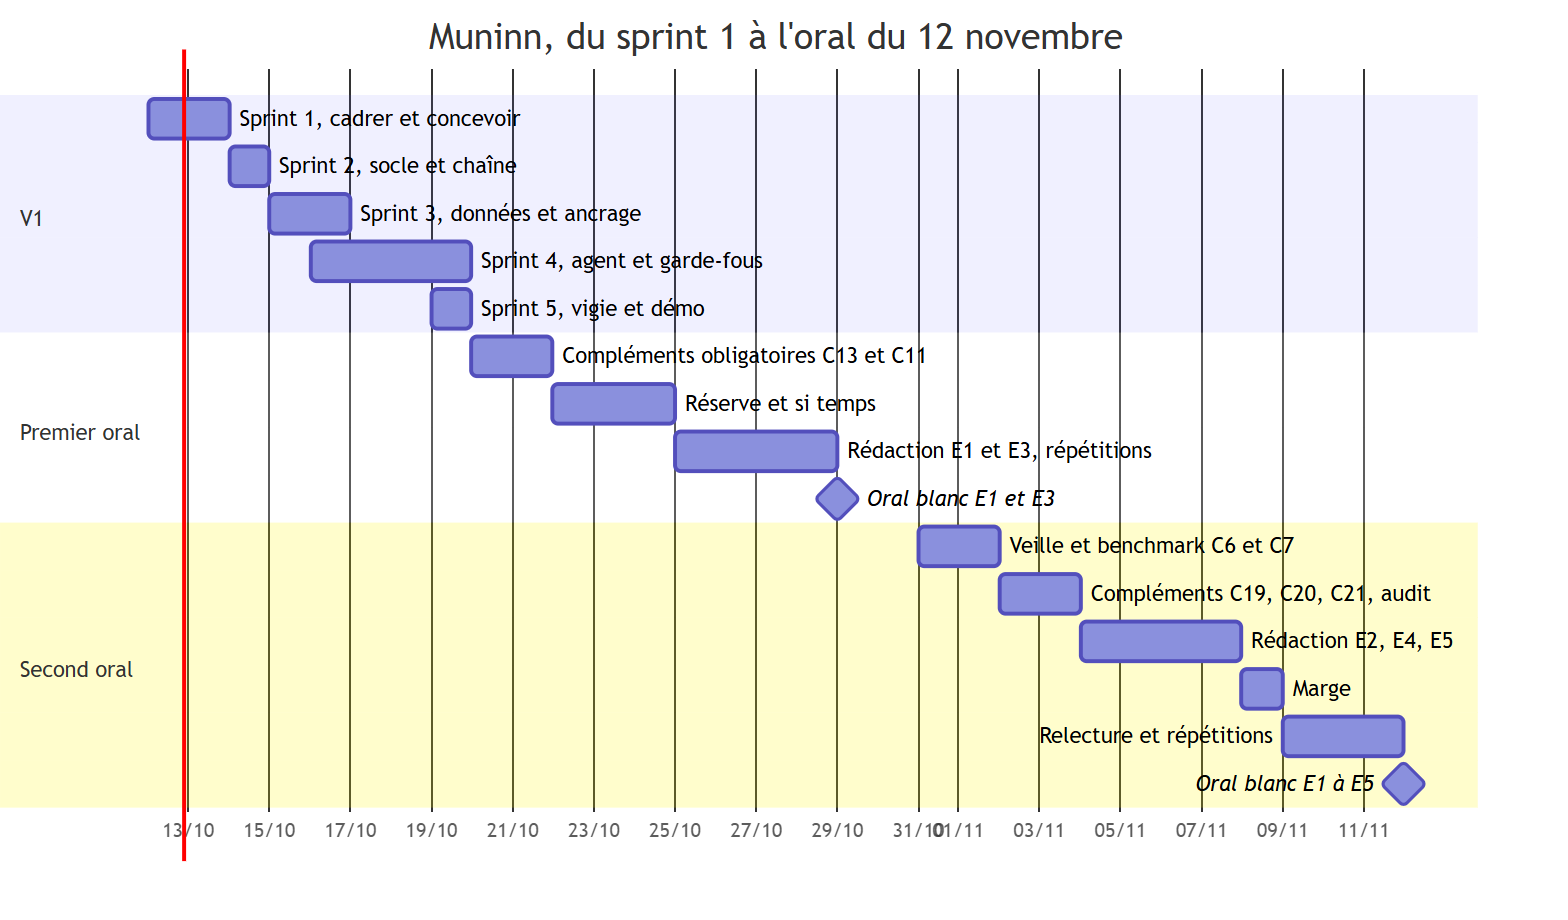
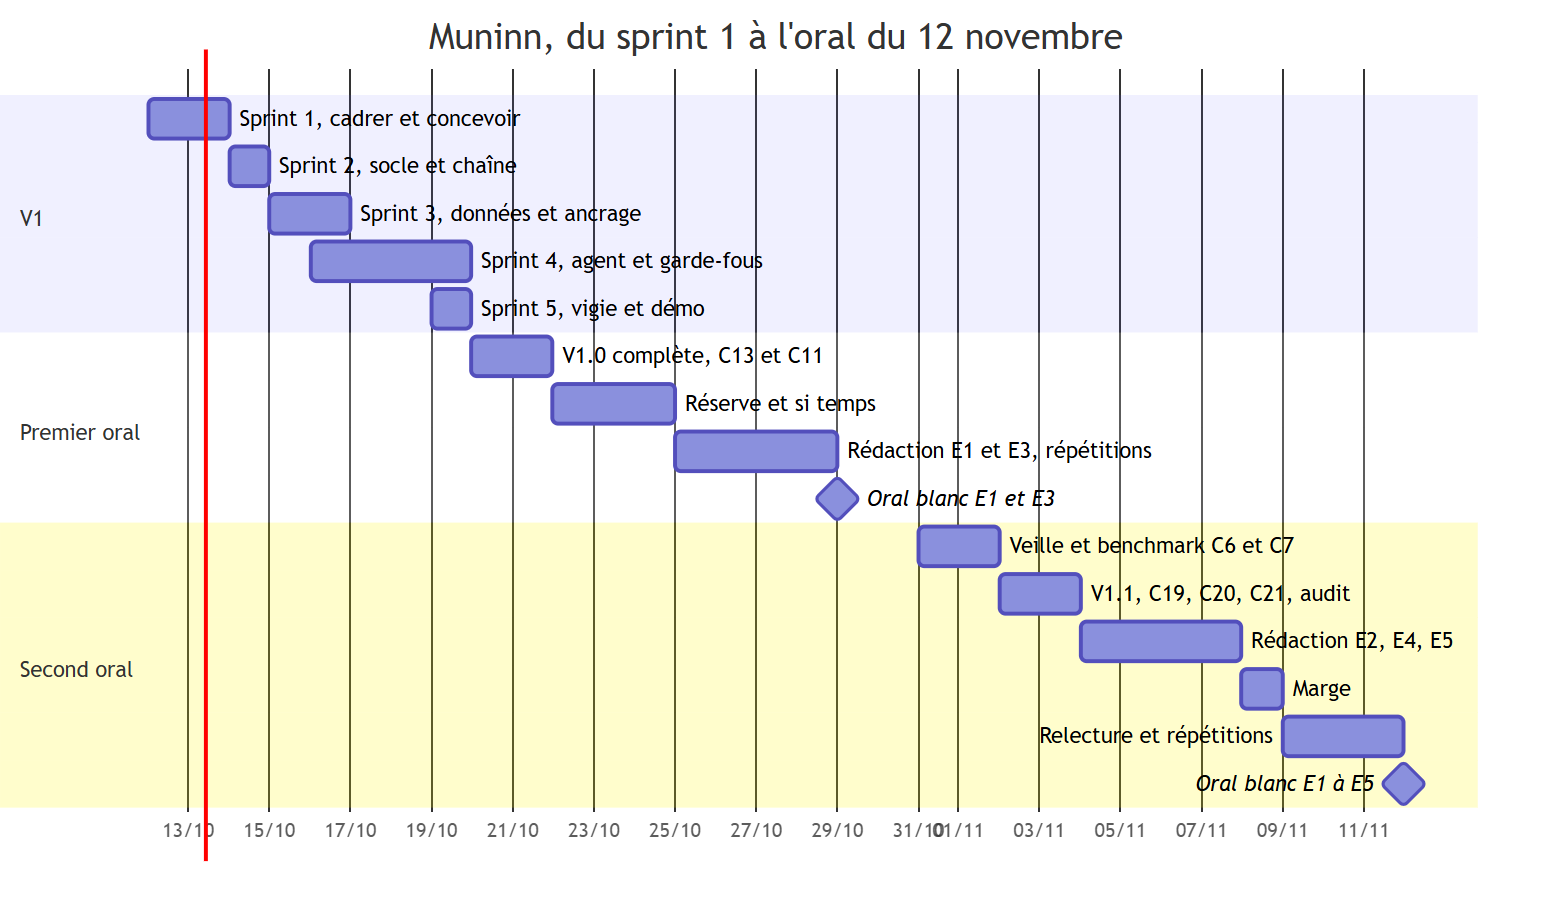
docs: precise que la V1 est temporaire et regenere le Gantt
La V1 ne redefinit pas le perimetre de Muninn ; elle vaut jusqu'au 13 novembre, puis le projet reprend la conception des phases 0 a 2 (D-42). Image de la feuille de route V1 regeneree avec les libelles des increments.

Changed region(s): [[0.3438, 0.3652, 0.5938, 0.3957], [0.6875, 0.6391, 0.9062, 0.6696]]

diff --git a/docs/v1/dossier-conception-v1.md b/docs/v1/dossier-conception-v1.md
@@ -9,7 +9,13 @@ cette validation et le feu vert du porteur (D-35).
 indépendantes. La v1.2 coupe des blocs entiers pour tenir réellement six jours, fixe la politique
 de l'agent et fige les oracles du contrat.
 
-« V1 » désigne la démo présentée en soutenance. Ce dossier consolide et tranche la conception
+« V1 » désigne la démo présentée en soutenance.
+
+**La V1 ne redéfinit pas le périmètre de Muninn (D-42).** C'est une découpe temporaire, faite
+pour la soutenance et valable jusqu'à l'oral du 13 novembre 2026. Ensuite, le projet reprend tel
+qu'il est pensé et décrit dans le dossier du concept et dans la conception des phases 0 à 2 ; tout
+ce que la V1 retire y reste décrit (section 2.3, colonne « Où il reste décrit »).
+ Ce dossier consolide et tranche la conception
 des phases 0 à 2 (`docs/conception/`) ; il se lit sans elle. Le glossaire est en section 10.
 Deux documents l'accompagnent : `couverture-competences.md` (ce que la V1 prouve, compétence par
 compétence) et `roadmap-v1.md` (le chemin jusqu'à l'oral du 12 novembre).
@@ -493,12 +499,12 @@ porteur choisit le modèle et fournit les clés au plus tard le vendredi 16 octo
 **Décisions proposées.** Elles seront consignées dans `docs/decisions.md` à la validation du
 formateur.
 
-| ID   | Décision proposée                                                                                                                                                                                                                                                                      | Ce qu'elle remplace                                     |
-| ---- | -------------------------------------------------------------------------------------------------------------------------------------------------------------------------------------------------------------------------------------------------------------------------------------- | ------------------------------------------------------- |
-| D-36 | Périmètre V1.0 gelé à six jours (section 2), du 14 au 19 octobre, en sprints 2 à 5, puis incréments de la section 2.5 jusqu'au 3 novembre ; aucune ligne de code avant la validation du formateur et le feu vert du porteur                                                            | Découpage J0 à J9 de D-35 ; backlog de la phase 2, §5.2 |
-| D-37 | L'agent dispose de deux outils en lecture seule via l'API des référentiels et suit la politique de la section 3.1 ; le serveur rejoue les contrôles, applique la règle contre l'invention et seul lui fixe statuts et provenance ; outils et code inclus dans l'empreinte d'évaluation | Phase 2, document 05, §8.1 (extraction sans outil)      |
-| D-38 | Retraits du socle en V1 : Redis, arq, PyNaCl, Key Vault, Bicep, Trivy, collecteur OpenTelemetry séparé. Le CD par OIDC et l'export vers Application Insights ne sont pas retirés : ils arrivent les 20 et 21 octobre (D-40)                                                            | Phase 2, document 06, §12.1 et ADR-13, pour la V1       |
-| D-39 | Sirene lu à distance par HTTPS, sans lac de données, en V1 ; le lac reste la cible (« si temps » n° 5)                                                                                                                                                                                 | D-27, pour la V1                                        |
+| ID   | Décision proposée                                                                                                                                                                                                                                                                                                                        | Ce qu'elle remplace                                     |
+| ---- | ---------------------------------------------------------------------------------------------------------------------------------------------------------------------------------------------------------------------------------------------------------------------------------------------------------------------------------------- | ------------------------------------------------------- |
+| D-36 | Périmètre V1.0 gelé à six jours (section 2), du 14 au 19 octobre, en sprints 2 à 5, puis incréments de la section 2.5 jusqu'au 3 novembre ; aucune ligne de code avant la validation du formateur et le feu vert du porteur ; valable pour la V1, jusqu'au 13 novembre (D-42)                                                            | Découpage J0 à J9 de D-35 ; backlog de la phase 2, §5.2 |
+| D-37 | L'agent dispose de deux outils en lecture seule via l'API des référentiels et suit la politique de la section 3.1 ; le serveur rejoue les contrôles, applique la règle contre l'invention et seul lui fixe statuts et provenance ; outils et code inclus dans l'empreinte d'évaluation ; valable pour la V1, jusqu'au 13 novembre (D-42) | Phase 2, document 05, §8.1 (extraction sans outil)      |
+| D-38 | Retraits du socle en V1 : Redis, arq, PyNaCl, Key Vault, Bicep, Trivy, collecteur OpenTelemetry séparé. Le CD par OIDC et l'export vers Application Insights ne sont pas retirés : ils arrivent les 20 et 21 octobre (D-40)                                                                                                              | Phase 2, document 06, §12.1 et ADR-13, pour la V1       |
+| D-39 | Sirene lu à distance par HTTPS, sans lac de données, en V1 ; le lac reste la cible (« si temps » n° 5)                                                                                                                                                                                                                                   | D-27, pour la V1                                        |
 
 **Question au formateur.** La consigne admet une dérogation au plus. La V1 en ajoute une
 (DuckDB) et retire plusieurs éléments par simplification (tableau des écarts, section 4). Les

diff --git a/docs/decisions.md b/docs/decisions.md
@@ -42,3 +42,4 @@ Une décision ne se modifie pas : une décision contraire ultérieure la remplac
 | D-35 | 2026-10-12 | Le développement démarre le mercredi 14 octobre 2026 (remplace D-16) ; J0 à J9 du 14 au 23 octobre, le samedi 24 devient un jour de tampon. Le développement ne démarre que sur le feu vert du porteur                                                                                                                                           | Correction du porteur                                                                                         | `docs/roadmap.md`, `phase-2/07-methode-agile.md`                                      |
 | D-40 | 2026-10-12 | Le porteur valide le dossier de conception V1 (v1.3), la couverture des compétences et la feuille de route V1. Le déploiement automatisé par la CI (C13, C19) et l'outillage de monitoring (C11, C20) deviennent obligatoires avant le 29 octobre, les 20 et 21 octobre. D-36 à D-39 restent des propositions jusqu'à la validation du formateur | Sans déploiement automatisé, C13 est partielle au premier oral                                                | `docs/v1/`                                                                            |
 | D-41 | 2026-10-13 | La V1 est ce que le jury évalue : déployée sur Azure, elle couvre les 21 compétences avant le 12 novembre, en incréments : V1.0 (sprints 2 à 5, 14 au 19 octobre), V1.0 complète (20 et 21 octobre), V1.1 (2 et 3 novembre) ; veille et benchmark sont des documents du dossier V1 (31 octobre, 1er novembre)                                    | Exigence de la certification : tout le référentiel est évalué le 12 novembre                                  | `docs/v1/`                                                                            |
+| D-42 | 2026-10-13 | La V1 ne redéfinit pas le périmètre de Muninn : elle est conservée le temps de la soutenance, jusqu'au 13 novembre 2026. Ensuite, le projet reprend tel qu'il est pensé et décrit dans le dossier du concept et dans la conception des phases 0 à 2. Les décisions propres à la V1 (D-36 à D-41) cessent alors de s'appliquer                    | Consigne du porteur                                                                                           | `docs/v1/`, `docs/roadmap.md`                                                         |

diff --git a/docs/v1/roadmap-v1.md b/docs/v1/roadmap-v1.md
@@ -8,6 +8,10 @@ développement) et sur la couverture des 21 compétences (`couverture-competence
 À sa validation, elle remplace le calendrier de `docs/roadmap.md` (v2.2) pour la période du 12
 octobre au 13 novembre ; celui-ci reste comme historique (décision proposée D-36).
 
+**Après le 13 novembre**, cette feuille de route s'arrête : le projet reprend la feuille de route
+du produit (`docs/roadmap.md`) et la conception des phases 0 à 2, sans les découpes de la V1
+(D-42).
+
 ## 1. Jalons et portes
 
 Une porte est un contrôle qui conditionne la suite : tant qu'elle n'est pas franchie, l'étape

diff --git a/docs/v1/couverture-competences.md b/docs/v1/couverture-competences.md
@@ -6,6 +6,9 @@
 prouve, ce que la conception déjà produite prouve, et ce qui manque avant chaque oral. La
 comparaison se fait contre l'énoncé exact du référentiel (21 compétences, livrables E1 à E5).
 
+La V1 est une découpe temporaire pour la soutenance ; elle ne redéfinit pas le périmètre de
+Muninn (D-42).
+
 ## 1. Verdict
 
 **Couverture visée : 21 compétences sur 21, prouvées avant le 12 novembre (D-41).** La V1 est
